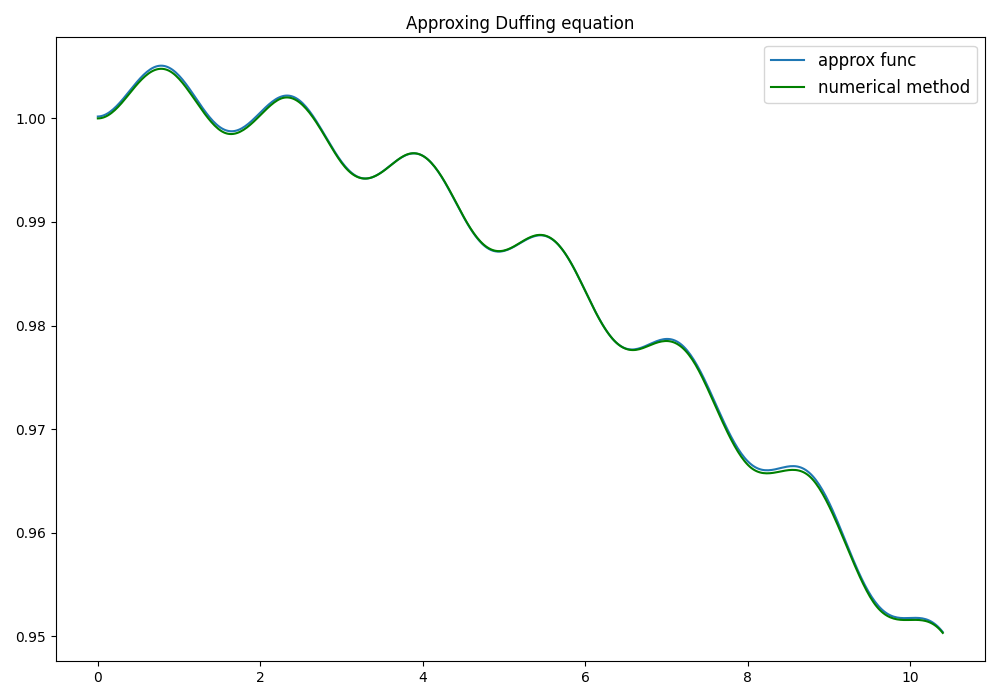
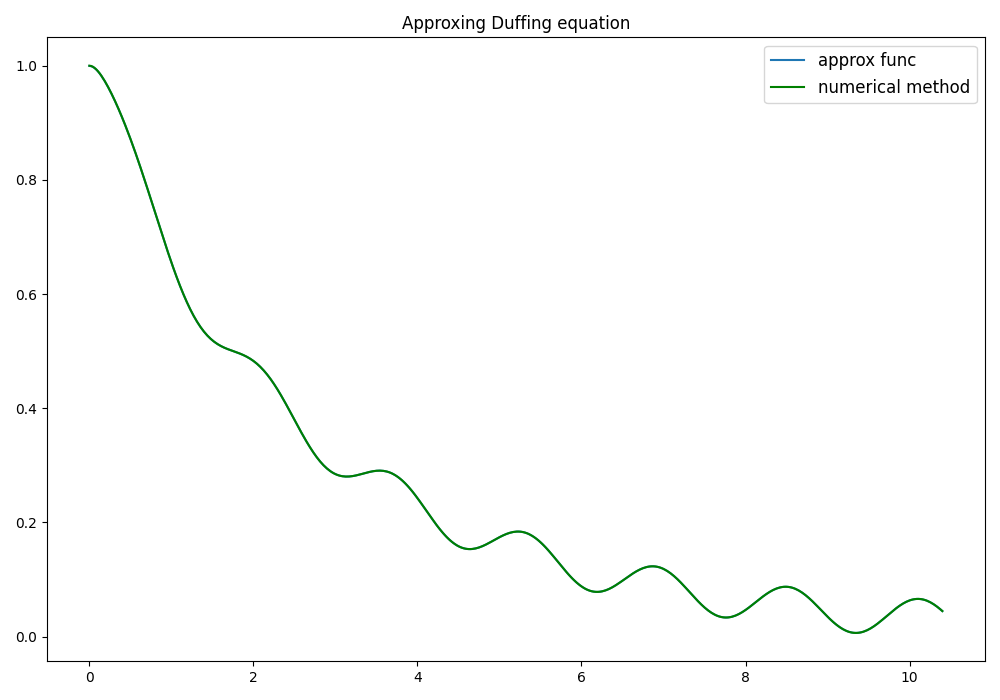
study_approx

diff --git a/src/Neural_network(PINN).py b/src/Neural_network(PINN).py
@@ -21,20 +21,6 @@ from tqdm import tqdm
 # b = a.method()
 
 # set the parameters of the equation
-gamma = 0.04
-delta = 0.02
-alpha = 0.0001
-beta = 0.001
-par = 1.25
-omega = torch.pi*par
-
-# set the numerical approximation
-a = Approx((gamma, delta, alpha, beta, omega))
-b = a.solve()
-
-num_data = torch.from_numpy(b.y[0, 1:]).unsqueeze(1)
-
-matplotlib.rcParams['figure.figsize'] = (10.0, 7.0)
 
 epohs = 6000
 dots = 500
@@ -75,18 +61,14 @@ class Neural(nn.Module):
     def forward(self, x):
         return self.layers_stack(x)
 
-# Создание модели PINN и её обучение
-PINN = Neural().to(device)
-
 metric_data = nn.MSELoss()
 # writer = SummaryWriter()
-optimizer = torch.optim.Adam(PINN.parameters()) #, lr=0.0001
 criterion = nn.NLLLoss()
 
 
-def pdeloss(t, epoh):
+def pdeloss(t, epoh, p, num_data):
     out = PINN(t_in).to(device)
-    f_in = pde(out, t_in)
+    f_in = pde(out, t_in, p)
 
     f_bc = PINN(t_bc).to(device)
     dxdt = torch.autograd.grad(f_bc, t_bc, torch.ones_like(t_bc), create_graph=True, retain_graph=True)[0]
@@ -104,19 +86,25 @@ def pdeloss(t, epoh):
     
     return loss
 
-def pde(out, t):
+def pde(out, t, p):
+        gamma = p[0]
+        delta = p[1]
+        alpha = p[2]
+        beta = p[3]
+        omega = p[4]
         dxdt = torch.autograd.grad(out, t, torch.ones_like(t), create_graph=True, retain_graph=True)[0]
         d2xdt2 = torch.autograd.grad(dxdt, t, torch.ones_like(t), create_graph=True, retain_graph=True)[0]
         
         fxt = d2xdt2 + delta*dxdt + alpha*out + beta*out**3 - gamma*torch.cos(omega*t)
         return fxt
 
-def train():
+def train(model, p, num_data):
+    optimizer = torch.optim.Adam(model.parameters()) #, lr=0.0001
     pbar = tqdm(range(epohs), desc='Training Progress')
     for step in pbar:
         def closure():
             optimizer.zero_grad()
-            loss = pdeloss(t, step)
+            loss = pdeloss(t, step, p, num_data)
             loss.backward()
             return loss
 
@@ -127,19 +115,15 @@ def train():
             pbar.set_description("Lambda: %.4f | Step: %d | Loss: %.7f" %
                                 (lambd, step, current_loss))
     pbar.clear()
+    torch.save(PINN.state_dict(), r'./weights/weights_PINN_Duffing_equation.pth')
     print(gamma, delta, alpha, beta, f"{par}pi",loss_all[-1], loss_all_num[-1])
 
-train()
-# writer.close()
-
-torch.save(PINN.state_dict(), r'./weights/weights_PINN_Duffing_equation.pth')
-# filescolab.download("weights_PINN_harm_oscil_3exp.pth")
 
 # initialize draw functions
 def draw_approx(net, t):
     fs = 12
     # x = net.forward(t)
-    x = PINN(t).to(device)
+    x = net(t).to(device)
     z = torch.autograd.grad(x, t, torch.ones_like(t), create_graph=True, retain_graph=True)[0]
     plt.plot(t.detach().numpy(), x.detach().numpy(), '-', label=r"approx func")
     # plt.plot(t.detach().numpy(), z.detach().numpy(), '-', label=r"first derivative")
@@ -174,5 +158,24 @@ def draw_history(net, t):
     plt.savefig(r"./figs/history_Duffing.png")
     plt.show()
 
-draw_approx(PINN, t)
-draw_history(PINN, t)
+if __name__ == "__main__":
+    gamma = 1
+    delta = 6.6
+    alpha = 2
+    beta = 1.2
+    par = 1.25
+    omega = torch.pi*par
+    p = (gamma, delta, alpha, beta, omega)
+    # set the numerical approximation
+    a = Approx(p)
+    b = a.solve()
+    
+    num_data = torch.from_numpy(b.y[0, 1:]).unsqueeze(1)
+
+    matplotlib.rcParams['figure.figsize'] = (10.0, 7.0)
+    
+    # Создание модели PINN
+    PINN = Neural().to(device)
+    train(PINN, p, num_data)
+    draw_approx(PINN, t)
+    draw_history(PINN, t)
